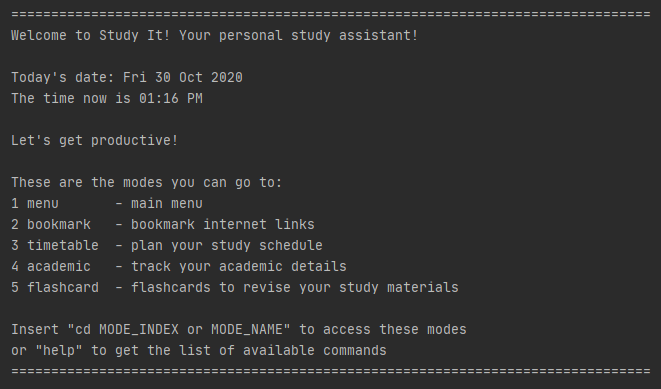
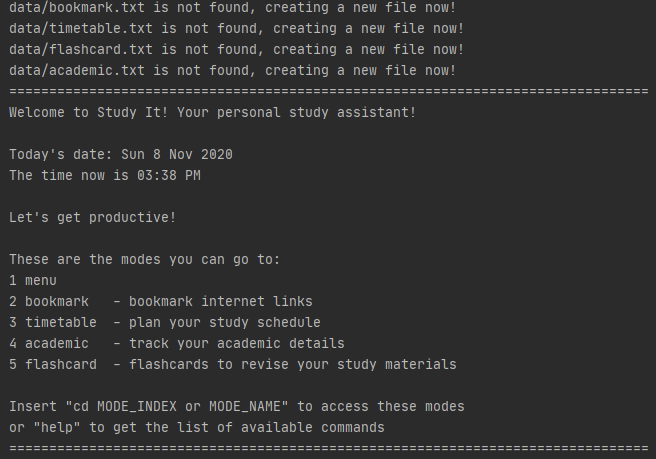
Update welcome message screenshot

diff --git a/docs/UserGuide.md b/docs/UserGuide.md
@@ -92,11 +92,9 @@ At menu:
 At bookmark mode:
 ![BookmarkHelp](Images/GeneralUG/bookmarkhelp.png)
 
----
 **Useful information:**
 * The message varies in different modes to show you the commands at that mode. 
 Try the command at other modes when you are using the application!
----
 
 ### 2. Changes the current mode: `cd MODE_NAME or MODE_INDEX`
 
